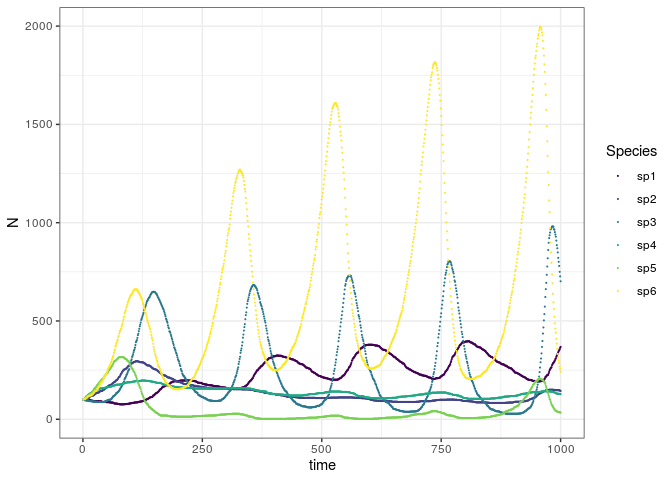
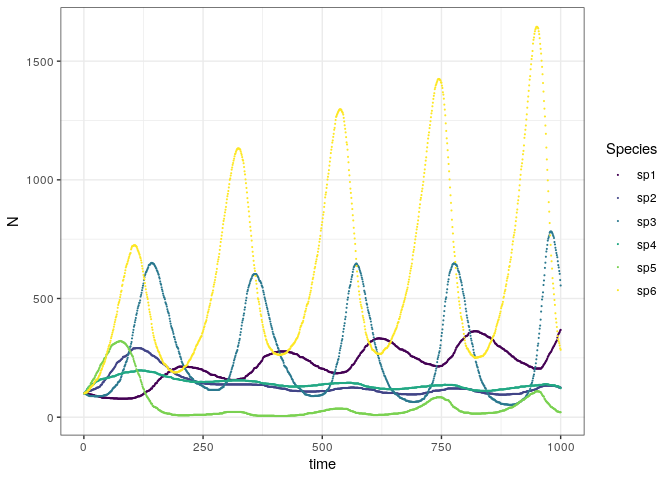
Continuous time Meta-web assembly model implementation

diff --git a/src/NetAssemblyFromMetaWeb.cpp b/src/NetAssemblyFromMetaWeb.cpp
@@ -3,9 +3,9 @@
 
 using namespace Rcpp;
 
-//#define DBG(MSG,X) Rcpp::Rcout << MSG << X << std::endl;
-//#define DBG3(MSG,X,Y,Z) Rcpp::Rcout << MSG << X << "\t" << Y << "\t" << Z << std::endl;
-#define DBG(MSG,X) 
+// #define DBG(MSG,X) Rcpp::Rcout << MSG << X << std::endl;
+// #define DBG3(MSG,X,Y,Z) Rcpp::Rcout << MSG << X << "\t" << Y << "\t" << Z << std::endl;
+#define DBG(MSG,X)
 #define DBG3(MSG,X,Y,Z)
 
 
@@ -167,6 +167,185 @@ List metaWebNetAssembly(LogicalMatrix metaW, NumericVector m, NumericVector e, N
 }
 
 
+//' Simulation of an Assembly process from a Meta-web assuming the interactions are conserved in the local web 
+//'
+//' This is a dynamical model of colonization and extinction process, with the restriction 
+//' that predators must have at least one prey species to survive in the local community, described in [1]. 
+//' With an additional secondary extinctions probability that controls when a predator goes extinct if it has
+//' no prey. This is a continuous time version of the model that follows the Gillespie algorithm [2] for simulation 
+//' 
+//' @references
+//' 
+//' 1. Galiana, N., Lurgi, M., Claramunt-López, B., Fortin, M.-J., Leroux, S., Cazelles, K., et al. (2018). 
+//' The spatial scaling of species interaction networks. Nat. Ecol. Evol., 2, 782–790
+//' 2. Gillespie, D. T. (1976). A general method for numerically simulating the stochastic time evolution of coupled chemical reactions. 
+//' Journal of Computational Physics, 22(4), 403–434. doi: 10.1016/0021-9991(76)90041-3
+//' 
+//'
+//' @param metaW  metacommunity adyacency matrix 
+//' @param m      A numeric vector of species' migration rates (probability) from the meta-web   
+//' @param e      A numeric vector of species' extinction probability 
+//' @param se      A numeric vector of species' secondary extinction probability 
+//' @param time   Number of time steps of simulation
+//' @return       A list with the final the number of species by time S, the number of links by time L, 
+//'               the time series of species STime and the adjacency matrix A with effective links. 
+// [[Rcpp::export]]
+List metaWebNetAssemblyCT(LogicalMatrix metaW, NumericVector m, NumericVector e, NumericVector se, int time) {
+  
+  if( metaW.ncol()!=metaW.ncol())  
+    stop("Matrix metaW have to be square");
+  
+  IntegerVector SL(time);      // Species with links vector, the total number of species could be bigger. 
+  IntegerVector LL(time);
+  
+  auto rho = metaW.nrow();     // meta web should be a square matrix
+  if(m.length()!=rho)
+    stop("migration vector m must have the same elements that the dimensions of metaW");  
+  if(e.length()!=rho)
+    stop("extinction vector e must have the same elements that the dimensions of metaW");  
+  
+  LogicalMatrix A(rho,rho);   // Local adyacency matrix
+  LogicalVector Spc(rho);     // Vector of present species
+  LogicalVector Bas(rho);     // Vector of basal species
+  NumericVector lambda(rho);   // Vector of scaled transition rate 
+  NumericVector lambda_se(rho);   // Vector of scaled transition rate 
+  NumericVector lambda_e(rho);   // Vector of scaled transition rate 
+  IntegerMatrix ST(rho,time); // Vector of species populations in time
+  unsigned long L=0;
+  double totR = 0;
+  
+  // Detect Basal species
+  // Build cumulative probabilities
+  //
+  auto r=colSums(metaW);
+  for(auto s=0; s<rho; s++){
+    if(r[s]==0)
+      Bas[s]=true;
+    totR += m[s] + e[s] + se[s];
+    lambda[s] = totR;
+    lambda_se[s] = lambda[s] - se[s];
+    lambda_e[s] = lambda_se[s] - e[s];
+  }
+  lambda = lambda / totR;
+  lambda_se = lambda_se / totR;
+  lambda_e = lambda_e / totR;  
+  
+  //
+  //   0 --> lambda_e[0] --> lambda_se[0] --> lambda[0] ---> lambda_e[1] --> lambda_se[1] --> lambda[1]=1
+  //      |-> m[0]        |-> e[0]         |-> se[0]
+  
+  DBG("Basales : ",Bas)
+  DBG("TotR    : ",totR)
+  DBG("lambda    : ",lambda)
+  DBG("lambda_se : ",lambda_se)
+  DBG("lambda_e  : ",lambda_e)
+    
+  // Continuous time 
+  //
+  double T = 0;
+  
+  for(auto t=1; t<time; ){
+
+    DBG("\n============ t: ",t)
+    DBG("============ T: ",T)
+    DBG("Spc:",Spc)
+    
+    
+    // Add Species m*(rho-S)
+    //
+    auto rnd=runif(1)[0];  
+    DBG("\nrandom: ",rnd)
+
+    for(auto s=0; s<rho; ){
+      if(rnd<lambda[s]){
+        DBG("\nSpecie: ",s)
+        
+        if(rnd >= lambda_se[s]) { 
+          // Secondary extinction
+          DBG("\nlambda_se: ", lambda_se[s])
+          
+          if(!Bas[s] && Spc[s]){ 
+            // if it is not basal secondary exctinction
+            //
+            auto colsum = 0;
+            for( auto j=0; j<rho; j++) {   // If the column sum is 0 no preys 
+              colsum += A(j,s);
+            }
+            if( colsum == 0) {  
+              DBG("EXTINCION SECUNDARIA s ",s)
+              for( auto j=0; j<rho; j++) {   // Delete row i (predators), column i (preys) is already 0
+                  A(s,j)=false; // j-->i
+              }
+              Spc[s]=false;
+            }
+          }
+        }
+        else if(rnd >= lambda_e[s]) {
+          DBG("\nlambda_e: ", lambda_e[s])
+          // Extinction 
+          // if species i extinct all column of interactions is deleted
+          if( Spc[s]){
+            for( auto j=0; j<rho; j++) {   
+              A(j,s)=false; // j-->i
+            }
+            // if species i extinct all row of interactions is deleted
+            for( auto j=0; j<rho; j++) {   
+              A(s,j)=false; // j-->i
+            }
+            Spc[s]=false;             // extinction
+            DBG("EXTINCION s ",s)
+              
+          }
+        } 
+        else {
+          DBG("\nMigration s: ", s)
+          // Migration
+          //
+          Spc[s]=true;             
+          for( auto j=0; j<rho; j++) { 
+            if( Spc[s] && Spc[j] ) {
+              if( metaW(j,s) ){
+                A(j,s)=true; // s<--j  Predator
+              }
+              if( metaW(s,j) ){
+                A(s,j)=true; // s-->j  Prey
+              }
+            }
+          }
+        }
+        break;
+      } else s++;
+    }
+    
+    // Update number of species
+    // Update time as an exponential distribution totR
+
+    auto deltaT = -log(runif(1)[0])/totR;
+    T += deltaT;
+    if(T>=t)  {
+      DBG3("\nT > t ", T, " >= ", t)
+      DBG("Interactions A: \n",A)
+      L = sum(A);
+      SL[t] = sum((colSums(A)>0)+(rowSums(A)>0)>0); // Active links
+      ST(_,t) = Spc;
+      
+      DBG("L :", L)
+      DBG("St:",SL[t])
+      DBG("Spc:",Spc)
+      DBG("Basal:",Bas)
+      LL[t]=L;  
+      t++;
+    }
+  }
+    
+  return List::create(Named("S") = SL,
+                      Named("L") = LL,
+                      Named("STime") = ST,
+                      Named("A") = A);
+
+}
+
+
 /*** R
 
 A <- matrix(c(c(0,1,1,1,0),c(0,0,1,0,1),c(0,0,0,0,0),c(0,0,1,0,0),c(0,0,0,1,0)),nrow = 5,byrow=TRUE)
@@ -176,14 +355,22 @@ A <- matrix(c(c(0,1,1,1,0),c(0,0,1,0,1),c(0,0,0,0,0),c(0,0,1,0,0),c(0,0,0,1,0)),
 #
 # If m=0 no species 
 #
-ee <- rep(.1,5)
-mm <- c(.3,.3,.3,1,1.0)
+mm <- rep(1,5) #c(0.2,0.2,0.2,.2,.2)
+ee <- rep(0.6, 5)
+se <- rep(1, 5)
 set.seed(123)
 
-A0 <- metaWebNetAssembly(A,mm,ee,10)
+# A0 <- metaWebNetAssembly(A,mm,ee,se,10)
+# A0
+# A0$L[10]==1
+# A0$S[10]==2
+
+A0 <- metaWebNetAssemblyCT(A,mm,ee,se,4)
 A0
 A0$L[10]==1
 A0$S[10]==2
+
+
 # set.seed(123)
 # A1 <- metaWebNetAssembly(A,mm,ee,1000)
 # any(A1$L!=A0$L)

diff --git a/src/RcppExports.cpp b/src/RcppExports.cpp
@@ -52,6 +52,21 @@ BEGIN_RCPP
     return rcpp_result_gen;
 END_RCPP
 }
+// metaWebNetAssemblyCT
+List metaWebNetAssemblyCT(LogicalMatrix metaW, NumericVector m, NumericVector e, NumericVector se, int time);
+RcppExport SEXP _meweasmo_metaWebNetAssemblyCT(SEXP metaWSEXP, SEXP mSEXP, SEXP eSEXP, SEXP seSEXP, SEXP timeSEXP) {
+BEGIN_RCPP
+    Rcpp::RObject rcpp_result_gen;
+    Rcpp::RNGScope rcpp_rngScope_gen;
+    Rcpp::traits::input_parameter< LogicalMatrix >::type metaW(metaWSEXP);
+    Rcpp::traits::input_parameter< NumericVector >::type m(mSEXP);
+    Rcpp::traits::input_parameter< NumericVector >::type e(eSEXP);
+    Rcpp::traits::input_parameter< NumericVector >::type se(seSEXP);
+    Rcpp::traits::input_parameter< int >::type time(timeSEXP);
+    rcpp_result_gen = Rcpp::wrap(metaWebNetAssemblyCT(metaW, m, e, se, time));
+    return rcpp_result_gen;
+END_RCPP
+}
 // metaWebNetAssemblyGLV
 List metaWebNetAssemblyGLV(NumericMatrix metaW, NumericVector m, NumericVector r, NumericVector ini, int time, double tau);
 RcppExport SEXP _meweasmo_metaWebNetAssemblyGLV(SEXP metaWSEXP, SEXP mSEXP, SEXP rSEXP, SEXP iniSEXP, SEXP timeSEXP, SEXP tauSEXP) {
@@ -114,6 +129,7 @@ static const R_CallMethodDef CallEntries[] = {
     {"_meweasmo_neutralNetAssembly", (DL_FUNC) &_meweasmo_neutralNetAssembly, 6},
     {"_meweasmo_cascadeNetAssembly", (DL_FUNC) &_meweasmo_cascadeNetAssembly, 6},
     {"_meweasmo_metaWebNetAssembly", (DL_FUNC) &_meweasmo_metaWebNetAssembly, 5},
+    {"_meweasmo_metaWebNetAssemblyCT", (DL_FUNC) &_meweasmo_metaWebNetAssemblyCT, 5},
     {"_meweasmo_metaWebNetAssemblyGLV", (DL_FUNC) &_meweasmo_metaWebNetAssemblyGLV, 6},
     {"_meweasmo_calcPropInteractionsGLVadjMat", (DL_FUNC) &_meweasmo_calcPropInteractionsGLVadjMat, 2},
     {"_meweasmo_generateGLVparmsFromAdj", (DL_FUNC) &_meweasmo_generateGLVparmsFromAdj, 6},

diff --git a/README.md b/README.md
@@ -6,9 +6,12 @@
 [![DOI](https://zenodo.org/badge/130283899.svg)](https://zenodo.org/badge/latestdoi/130283899)
 
 This package simulates the assembly of ecological networks from a
-regional metaweb. It uses a generalized Lotka-Volterra stochastic model.
-Species can migrate from the meta-web and establish the ecological
-interactions specified in the metaweb.
+regional metaweb. Two main models are implemented; first the trophic
+theory of island biogeography \[2\] with the adition that secondary
+extinctions are not fixed but happen with a defined probability. Second
+a generalized Lotka-Volterra stochastic model. Species can migrate from
+the metaweb and establish the ecological interactions specified in the
+metaweb.
 
 License: MIT
 
@@ -24,7 +27,7 @@ install_github('lsaravia/meweasmo')
 library(meweasmo)
 ```
 
-## Get Started
+## Get Started with Generalized Lotka-volterra model
 
 ### Simulate a 6 species network without migration
 
@@ -93,7 +96,7 @@ A1 <- metaWebNetAssemblyGLV(A,m,r,yini,1000,0.1)
 ``` r
 
 A1$STime[,1000]
-#> [1] 368 144 702 128  34 242
+#> [1] 368 125 555 122  21 284
 
 calcPropInteractionsGLVadjMat(A,A1$STime[,1000])
 #> [1] 0.2 0.6 0.0 0.1 0.1
@@ -124,3 +127,8 @@ ggplot(df1, aes(time,N,colour=Species)) + geom_point(size=0.1) +  theme_bw() + s
     local food webs Leonardo A. Saravia, Tomás I. Marina, Marleen De
     Troch, Fernando R. Momo bioRxiv 340430; doi:
     <https://doi.org/10.1101/340430>
+
+2.  Gravel, D., Massol, F., Canard, E., Mouillot, D., & Mouquet, N.
+    (2011). Trophic theory of island biogeography. Ecology Letters,
+    14(10), 1010–1016.
+    <https://doi.org/10.1111/j.1461-0248.2011.01667.x>
